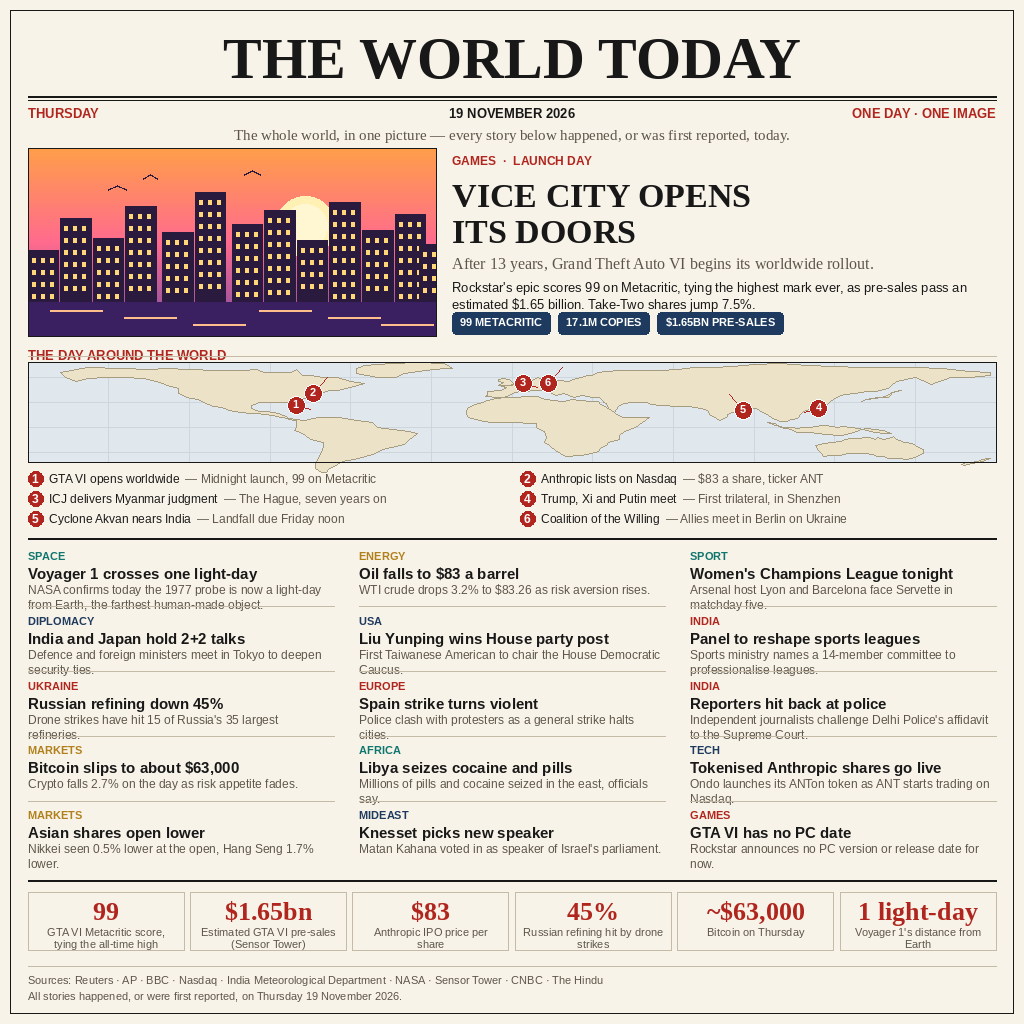
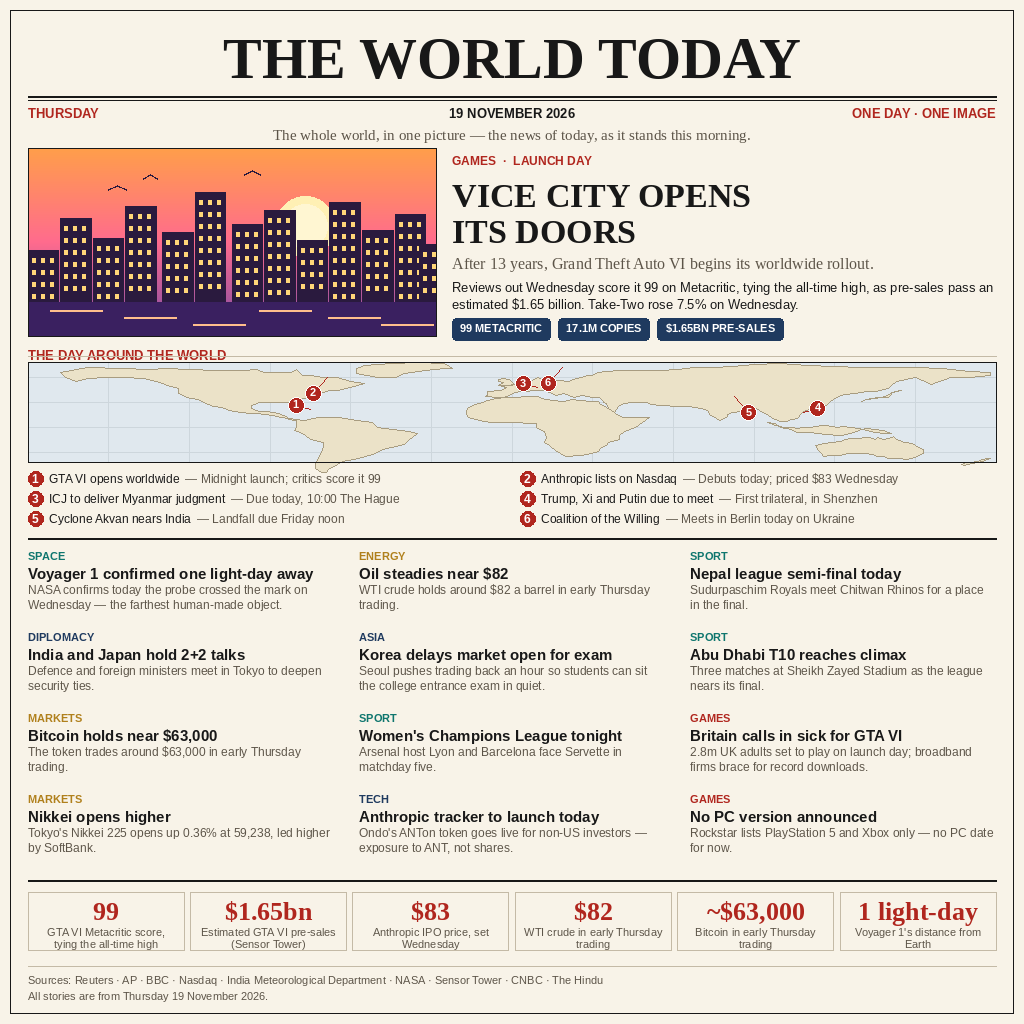
v2: re-report — all stories verified as 19 Nov 2026, scheduled items re-tensed, divider rules removed

diff --git a/build_image.py b/build_image.py
@@ -68,60 +68,54 @@ def text_block(draw, x, y, lines, fnt, fill, leading):
 # (number, lon, lat, headline for the legend, label offset dx, dy)
 LEADS = [
     (1, -80.2, 25.8, "GTA VI opens worldwide",
-     "Midnight launch, 99 on Metacritic", 14, 4),
+     "Midnight launch; critics score it 99", 14, 4),
     (2, -74.0, 40.7, "Anthropic lists on Nasdaq",
-     "$83 a share, ticker ANT", 14, -16),
-    (3, 4.3, 52.1, "ICJ delivers Myanmar judgment",
-     "The Hague, seven years on", 14, 4),
-    (4, 114.1, 22.5, "Trump, Xi and Putin meet",
+     "Debuts today; priced $83 Wednesday", 14, -16),
+    (3, 4.3, 52.1, "ICJ to deliver Myanmar judgment",
+     "Due today, 10:00 The Hague", 14, 4),
+    (4, 113.8, 22.6, "Trump, Xi and Putin due to meet",
      "First trilateral, in Shenzhen", -14, 4),
-    (5, 86.0, 19.8, "Cyclone Akvan nears India",
+    (5, 88.0, 17.0, "Cyclone Akvan nears India",
      "Landfall due Friday noon", -14, -16),
     (6, 13.4, 52.5, "Coalition of the Willing",
-     "Allies meet in Berlin on Ukraine", 14, -16),
+     "Meets in Berlin today on Ukraine", 14, -16),
 ]
 
 # --- the shorter stories, three columns ------------------------------------
 # (tag, colour, headline, one-line summary)
 STORIES = [
-    ("SPACE", TEAL, "Voyager 1 crosses one light-day",
-     "NASA confirms today the 1977 probe is now a light-day from Earth, the farthest human-made object."),
+    ("SPACE", TEAL, "Voyager 1 confirmed one light-day away",
+     "NASA confirms today the probe crossed the mark on Wednesday — the farthest human-made object."),
     ("DIPLOMACY", NAVY, "India and Japan hold 2+2 talks",
      "Defence and foreign ministers meet in Tokyo to deepen security ties."),
-    ("UKRAINE", RED, "Russian refining down 45%",
-     "Drone strikes have hit 15 of Russia's 35 largest refineries."),
-    ("MARKETS", GOLD, "Bitcoin slips to about $63,000",
-     "Crypto falls 2.7% on the day as risk appetite fades."),
-    ("MARKETS", GOLD, "Asian shares open lower",
-     "Nikkei seen 0.5% lower at the open, Hang Seng 1.7% lower."),
-    ("ENERGY", GOLD, "Oil falls to $83 a barrel",
-     "WTI crude drops 3.2% to $83.26 as risk aversion rises."),
-    ("USA", NAVY, "Liu Yunping wins House party post",
-     "First Taiwanese American to chair the House Democratic Caucus."),
-    ("EUROPE", RED, "Spain strike turns violent",
-     "Police clash with protesters as a general strike halts cities."),
-    ("AFRICA", TEAL, "Libya seizes cocaine and pills",
-     "Millions of pills and cocaine seized in the east, officials say."),
-    ("MIDEAST", NAVY, "Knesset picks new speaker",
-     "Matan Kahana voted in as speaker of Israel's parliament."),
+    ("MARKETS", GOLD, "Bitcoin holds near $63,000",
+     "The token trades around $63,000 in early Thursday trading."),
+    ("MARKETS", GOLD, "Nikkei opens higher",
+     "Tokyo's Nikkei 225 opens up 0.36% at 59,238, led higher by SoftBank."),
+    ("ENERGY", GOLD, "Oil steadies near $82",
+     "WTI crude holds around $82 a barrel in early Thursday trading."),
+    ("ASIA", NAVY, "Korea delays market open for exam",
+     "Seoul pushes trading back an hour so students can sit the college entrance exam in quiet."),
     ("SPORT", TEAL, "Women's Champions League tonight",
      "Arsenal host Lyon and Barcelona face Servette in matchday five."),
-    ("INDIA", RED, "Panel to reshape sports leagues",
-     "Sports ministry names a 14-member committee to professionalise leagues."),
-    ("INDIA", RED, "Reporters hit back at police",
-     "Independent journalists challenge Delhi Police's affidavit to the Supreme Court."),
-    ("TECH", NAVY, "Tokenised Anthropic shares go live",
-     "Ondo launches its ANTon token as ANT starts trading on Nasdaq."),
-    ("GAMES", RED, "GTA VI has no PC date",
-     "Rockstar announces no PC version or release date for now."),
+    ("TECH", NAVY, "Anthropic tracker to launch today",
+     "Ondo's ANTon token goes live for non-US investors — exposure to ANT, not shares."),
+    ("SPORT", TEAL, "Nepal league semi-final today",
+     "Sudurpaschim Royals meet Chitwan Rhinos for a place in the final."),
+    ("SPORT", TEAL, "Abu Dhabi T10 reaches climax",
+     "Three matches at Sheikh Zayed Stadium as the league nears its final."),
+    ("GAMES", RED, "Britain calls in sick for GTA VI",
+     "2.8m UK adults set to play on launch day; broadband firms brace for record downloads."),
+    ("GAMES", RED, "No PC version announced",
+     "Rockstar lists PlayStation 5 and Xbox only — no PC date for now."),
 ]
 
 NUMBERS = [
     ("99", "GTA VI Metacritic score, tying the all-time high"),
     ("$1.65bn", "Estimated GTA VI pre-sales (Sensor Tower)"),
-    ("$83", "Anthropic IPO price per share"),
-    ("45%", "Russian refining hit by drone strikes"),
-    ("~$63,000", "Bitcoin on Thursday"),
+    ("$83", "Anthropic IPO price, set Wednesday"),
+    ("$82", "WTI crude in early Thursday trading"),
+    ("~$63,000", "Bitcoin in early Thursday trading"),
     ("1 light-day", "Voyager 1's distance from Earth"),
 ]
 
@@ -238,10 +232,10 @@ def draw_map(d):
         x, y = project(lon, lat)
         lx, ly = x + dx, y + dy
         d.line([(x, y), (lx, ly)], fill=RED, width=1)
-        d.ellipse([x - 9, y - 9, x + 9, y + 9], fill=RED, outline=WHITE, width=1)
+        d.ellipse([x - 8, y - 8, x + 8, y + 8], fill=RED, outline=WHITE, width=1)
         s = str(num)
         nw = d.textlength(s, font=f_pin)
-        d.text((x - nw / 2, y - 7.5), s, font=f_pin, fill=WHITE)
+        d.text((x - nw / 2, y - 7), s, font=f_pin, fill=WHITE)
 
 
 def draw_hero_art(d, x0, y0, x1, y1):
@@ -308,7 +302,7 @@ def draw_masthead(d):
     right = "ONE DAY · ONE IMAGE"
     rw = d.textlength(right, font=f_small)
     d.text((996 - rw, 106), right, font=f_small, fill=RED)
-    tag = "The whole world, in one picture — every story below happened, or was first reported, today."
+    tag = "The whole world, in one picture — the news of today, as it stands this morning."
     tw = d.textlength(tag, font=f_tag)
     d.text(((W - tw) / 2, 126), tag, font=f_tag, fill=MUTED)
 
@@ -328,11 +322,11 @@ def draw_hero(d):
     y = text_block(d, tx, y, wrap(d, "After 13 years, Grand Theft Auto VI begins its worldwide rollout.",
                           f_dek, 996 - tx, 1), f_dek, MUTED, 20)
     y += 6
-    y = text_block(d, tx, y, wrap(d, "Rockstar's epic scores 99 on Metacritic, tying the "
-                          "highest mark ever, as pre-sales pass an estimated $1.65 billion. "
-                          "Take-Two shares jump 7.5%.",
+    y = text_block(d, tx, y, wrap(d, "Reviews out Wednesday score it 99 on Metacritic, "
+                          "tying the all-time high, as pre-sales pass an estimated "
+                          "$1.65 billion. Take-Two rose 7.5% on Wednesday.",
                           f_body, 996 - tx, 2), f_body, INK, 17)
-    y = ay1 - 24
+    y = 318
     f_chip = font(SANS_B, 11)
     chips = ["99 METACRITIC", "17.1M COPIES", "$1.65BN PRE-SALES"]
     cx = tx
@@ -375,7 +369,7 @@ def draw_columns(d):
     f_tag = font(SANS_B, 11)
     f_head = font(SANS_B, 15)
     f_sum = font(SANS, 12)
-    per_col = 5
+    per_col = 4
     slot = (bottom - top) / per_col
     for ci in range(3):
         x = col_x[ci]
@@ -388,10 +382,6 @@ def draw_columns(d):
                            f_head, INK, 18)
             y = text_block(d, x, y, wrap(d, summ, f_sum, col_w, 2),
                            f_sum, MUTED, 15)
-            if ri < per_col - 1:
-                d.line([(x, top + (ri + 1) * slot - 8),
-                        (x + col_w, top + (ri + 1) * slot - 8)],
-                       fill=RULE, width=1)
     d.line([(28, 880), (996, 880)], fill=INK, width=2)
 
 
@@ -418,7 +408,7 @@ def draw_footer(d):
     line = ("Sources: Reuters · AP · BBC · Nasdaq · India Meteorological Department · "
             "NASA · Sensor Tower · CNBC · The Hindu")
     d.text((28, 974), line, font=f_f, fill=MUTED)
-    d.text((28, 990), "All stories happened, or were first reported, on Thursday 19 November 2026.",
+    d.text((28, 990), "All stories are from Thursday 19 November 2026.",
            font=f_f, fill=MUTED)
 
 

diff --git a/README.md b/README.md
@@ -16,11 +16,11 @@ happened, or was first reported, on that day.
   Hague, the first-ever Trump–Xi–Putin trilateral in Shenzhen, Cyclone
   Akvan bearing down on India's east coast, and the Coalition of the
   Willing meeting in Berlin.
-- **Fifteen more stories** in three columns — Voyager 1 crossing one
-  light-day, India–Japan 2+2 talks in Tokyo, Russian oil refining down
-  45%, Bitcoin, Asian markets, oil, the US House Democratic Caucus chair
-  election, Spain's general strike, a drug seizure in Libya, a new
-  Knesset speaker, the Women's Champions League, and more.
+- **Twelve more stories** in three columns — Voyager 1's confirmation a
+  light-day out, India–Japan 2+2 talks in Tokyo, Bitcoin, the Nikkei's
+  open, oil, South Korea's exam-day market delay, the Women's Champions
+  League, Ondo's Anthropic tracker, cricket in Nepal and Abu Dhabi, and
+  two more from launch day itself.
 - **By the numbers** — the day's figures at a glance, and a sources line.
 
 ## How it is made
